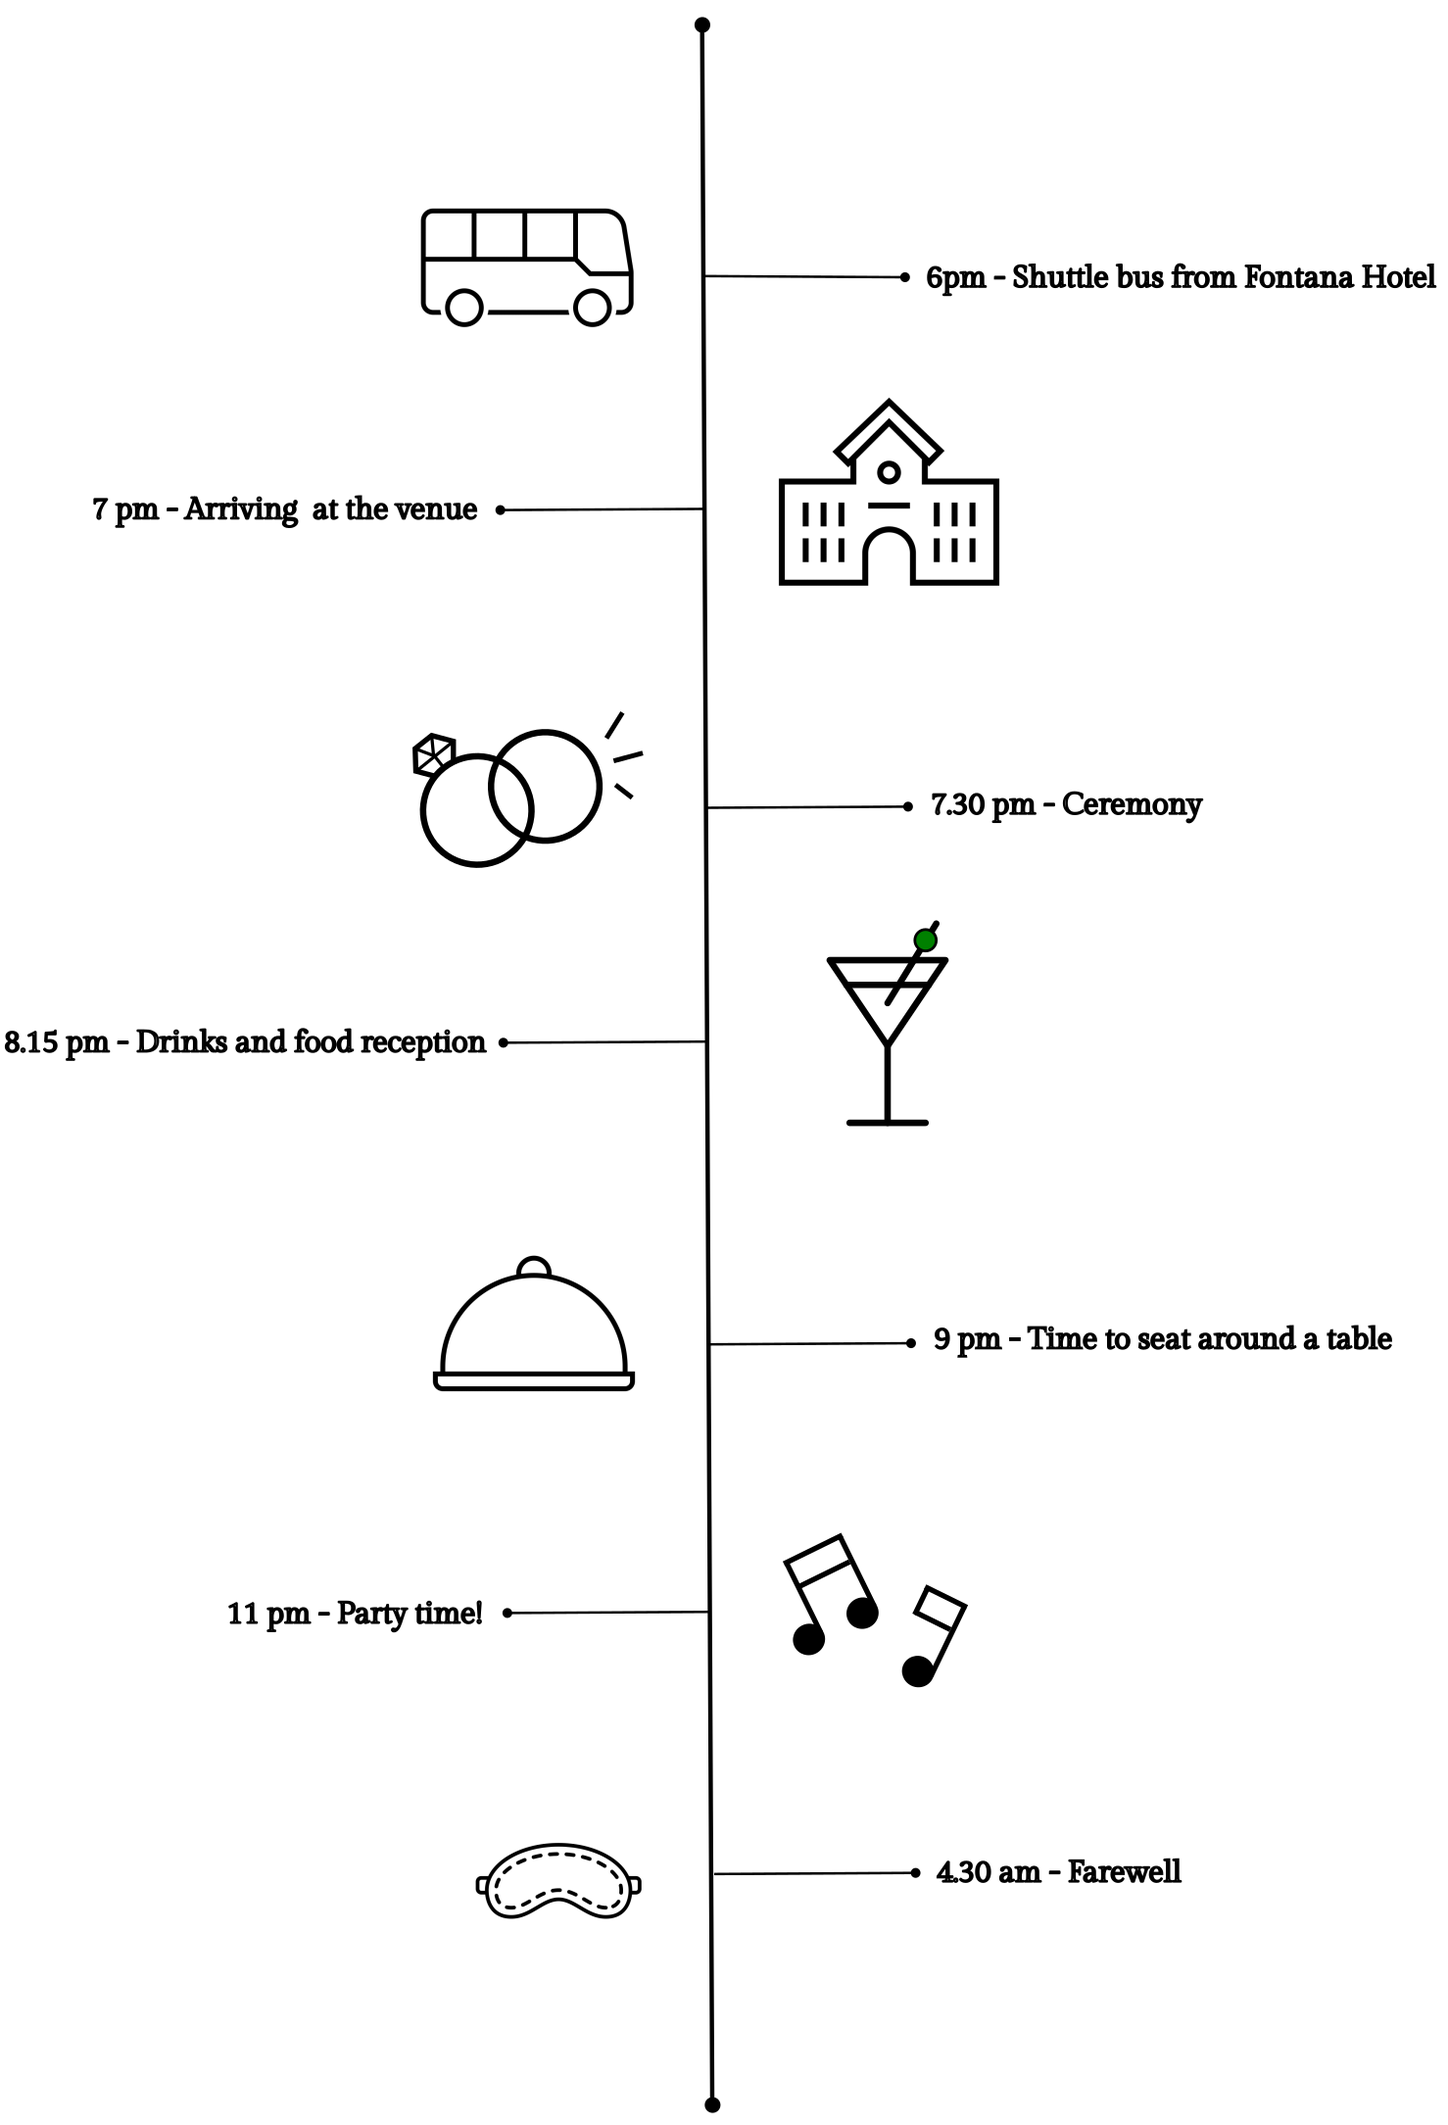
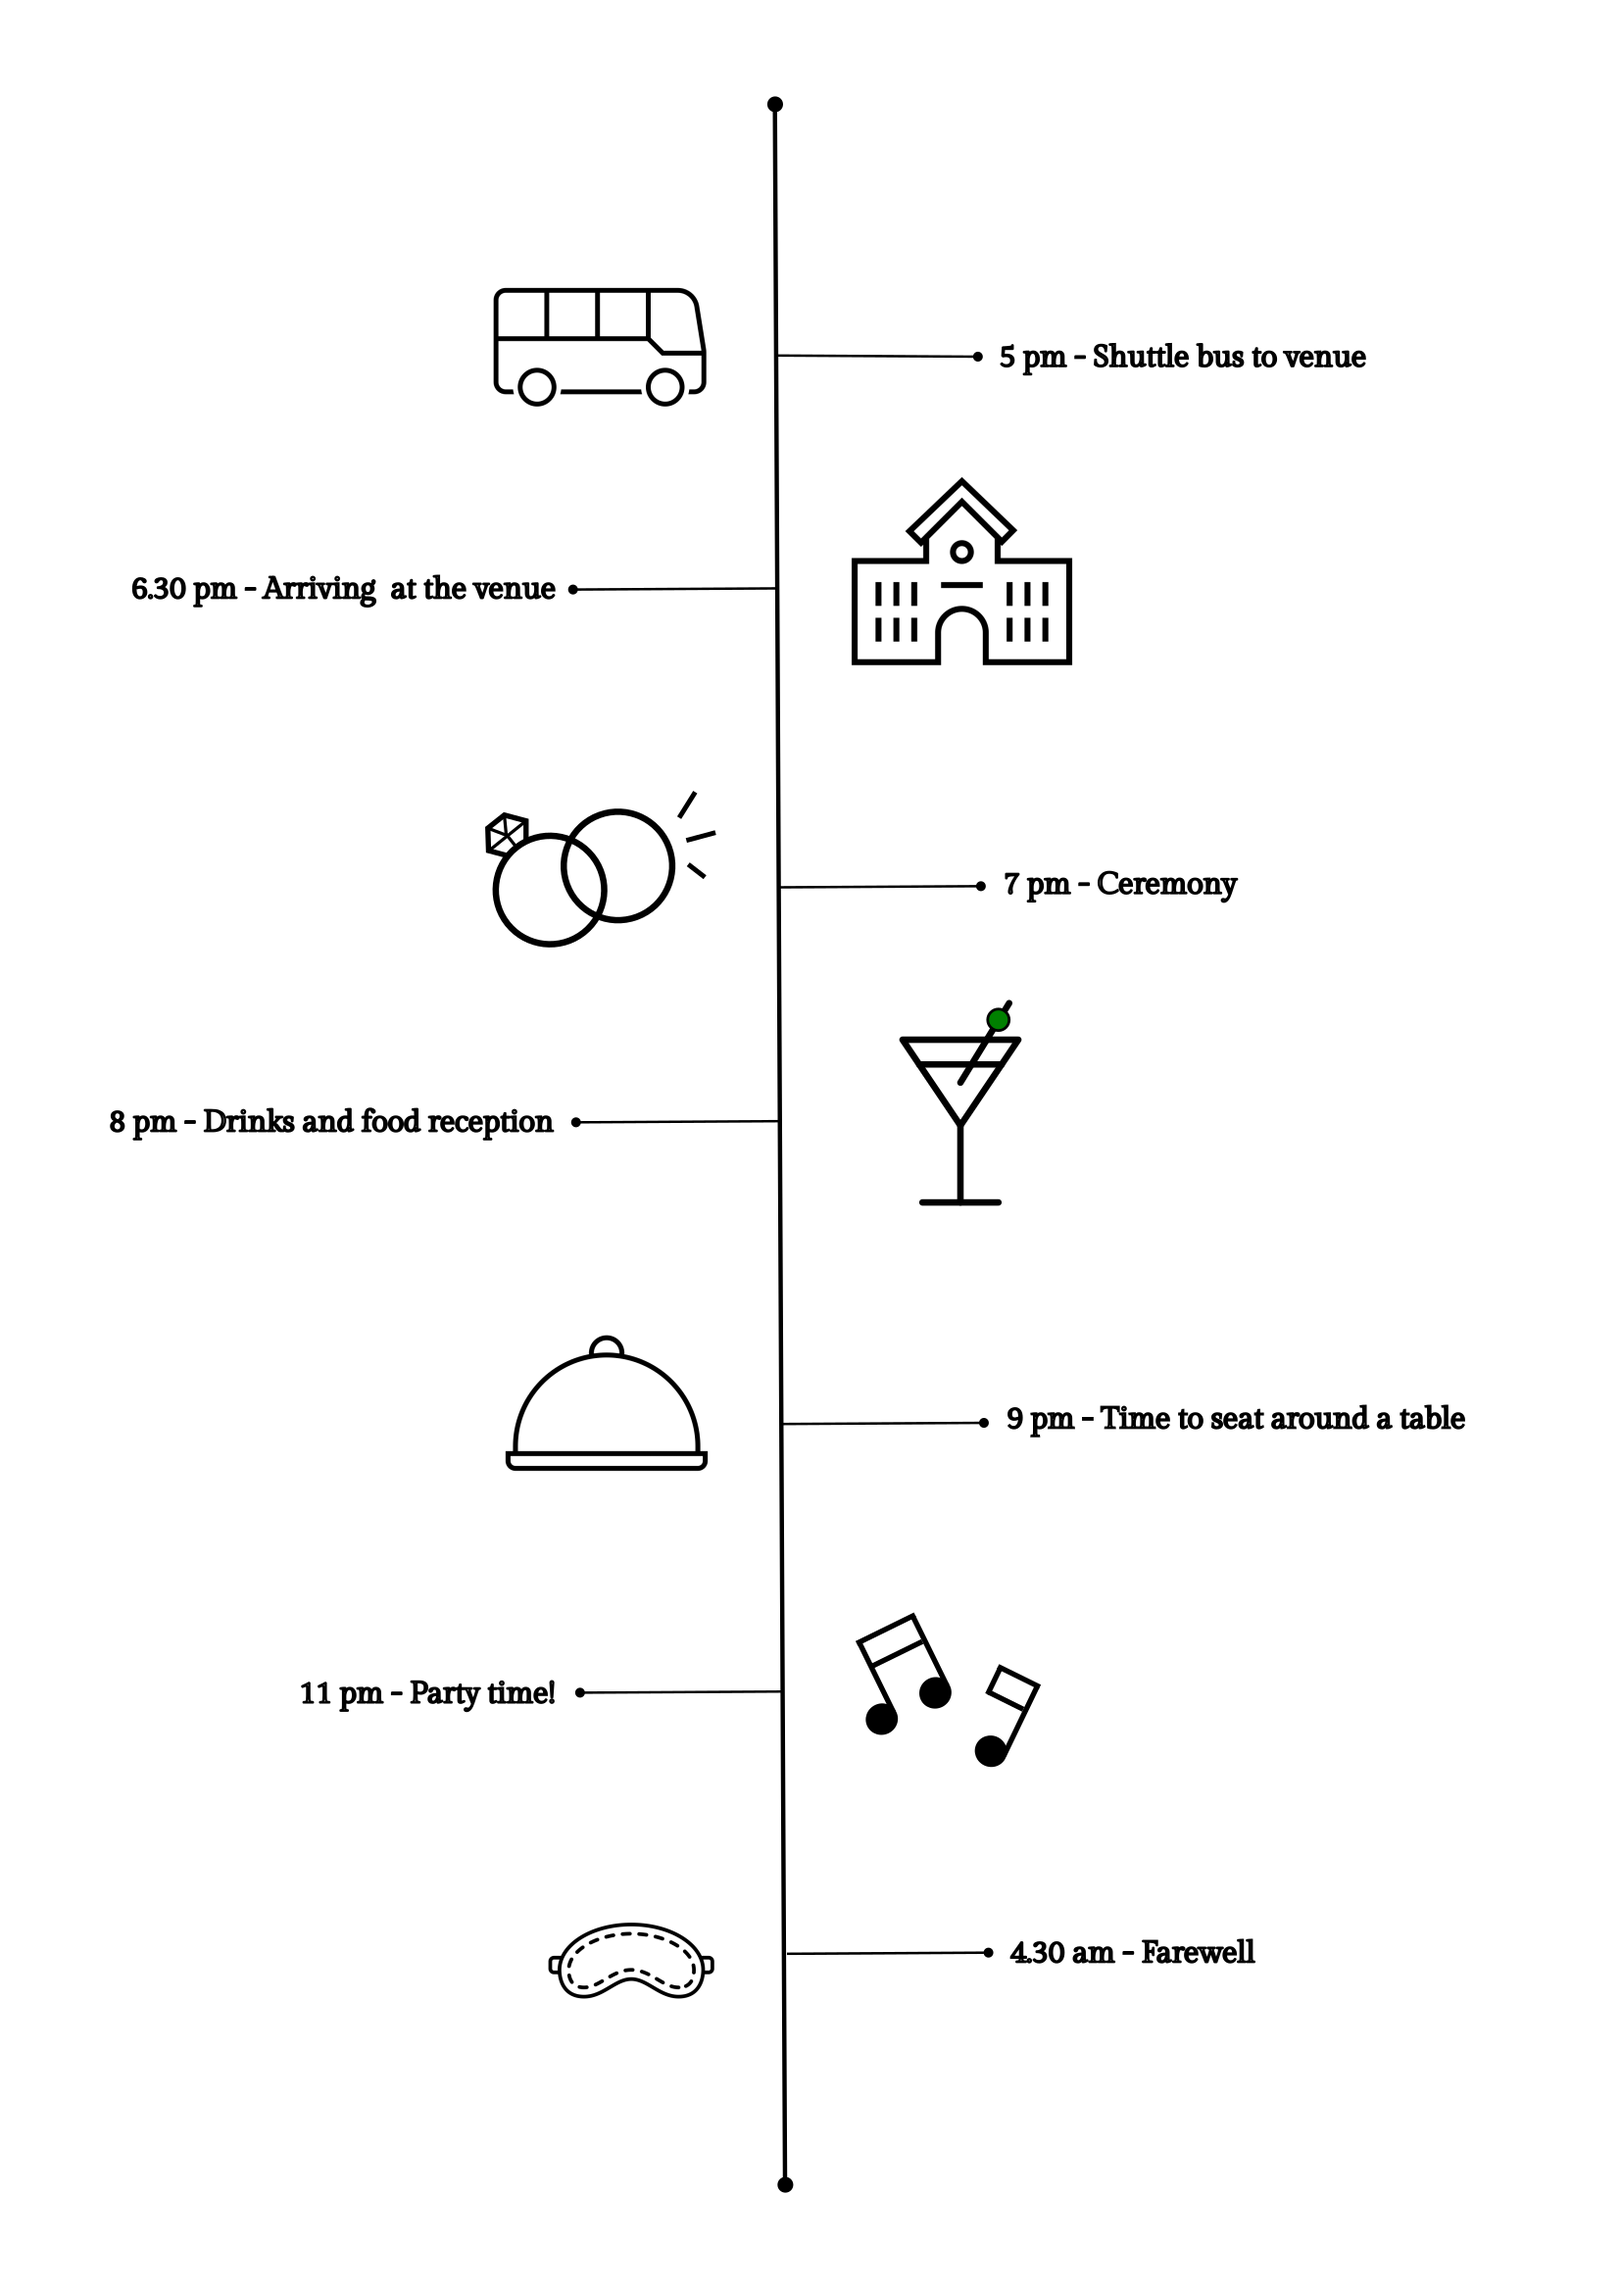
Changing timeline

diff --git a/index.html b/index.html
@@ -52,7 +52,7 @@
                 <h1 class="subtitle">Wedding Invitation</h1>
                 <h2 class="title">P<span class="ampersand">&</span>M</h2>
                 <h4 class="subtitle tempatwaktu">
-                    Saturday, 7.00pm
+                    Saturday, 6.30pm
                     <br>
                     14 September 2024
                     <br>
@@ -276,6 +276,9 @@
                                             Pros: Fancier.
                                             <br>
                                             Cons: Far from city centre.
+                                            <br>
+                                            <br>
+                                            <u>Text us for a discount code!</u>
                                         </p>
                                     </div>
                                 </article>
@@ -509,6 +512,15 @@
                             </label>
                         </p>
                         <p>
+                            <label>If so, which bus would you take to get back?
+                                <select name="shuttle_time">
+                                    <option value="">Select...</option>
+                                    <option value="2/2.30am">2/2.30am (earliest)</option>
+                                    <option value="4.30am">4.30am (farewell)</option>
+                                </select>
+                            </label>
+                        </p>
+                        <p>
                             <label>Will you attend the pre-wedding?
                                 <select name="pre-wedding" required>
                                     <option value="">Select...</option>
@@ -559,7 +571,6 @@
                     </p>
                     <div class="space40px"></div>
                 </div>
-
             </div>
         </div>
     </section>
